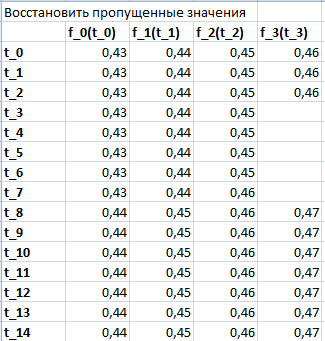
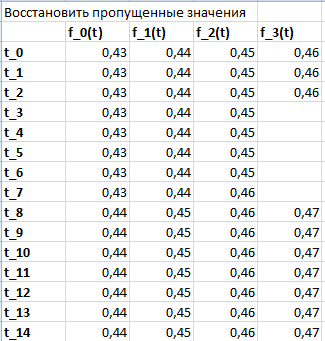
rm odd indexes from data analysis page

diff --git a/data_analysis.html b/data_analysis.html
@@ -140,7 +140,7 @@ def Виды исходных данных =
 
 ![img/data_analysis_0.png]()
 
-Но, о ужас, в функции \(f_3(t_3)\) дыры.
+Но, о ужас, в функции \(f_3(t)\) дыры.
 
 Чтобы правдоподобно замазать, нужно узнать как в среднем "шагают" другие и примерить к себе
 
